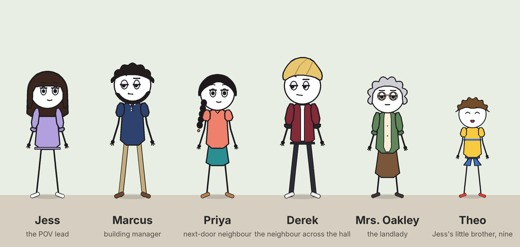
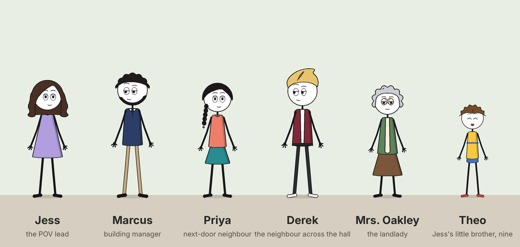
pov-story: redraw the cast to match the reference look
Rebuilt the drawing by comparing a counter two-shot against the reference
frame side by side: thin-outlined eyes with a straight lid line and small
pupils, bigger heads and shorter bodies, solid black limbs, soft A-line and
boxy garments, flat hair, outline-free sets, purple-box subtitle highlight.
Pack, sample, cast sheet, motion test and README previews updated; all 53
tracks pass the posture gate with 0 errors and 0 warnings, including --scene.

Claude-Session: https://claude.ai/code/session_01NQ2JJwxztF1Q7rFfGqcSXC

diff --git a/skills/directing-stickman-videos/references/styles/samples/pov-story.md b/skills/directing-stickman-videos/references/styles/samples/pov-story.md
@@ -7,8 +7,8 @@ Six original characters live in one apartment building; this part uses Jess (the
 - Ratio and length: 9:16, three clips of about ten seconds (about 30 s), 24 FPS, 1080p.
 - Style: `pov-story` (flat 2D vertical drama series, pack `pov-story.md`, status gated). The style paragraph, the anchors, the body rule, each speaker's voice line and the negatives are repeated verbatim in every clip.
 - Cast: Jess (clips 1–3), Marcus (clip 2), Derek (clip 3). A clip lists exactly who is in it.
-- Locks: plain white heads with no nose; Jess's dark-brown blunt fringe and lavender sweatshirt; the photo goes Marcus (right hand) → Jess (left hand) in clip 2 and stays in Jess's left hand through clip 3; Derek holds the parcel in both hands.
-- Palette: warm peach hallway, powder-blue mailroom, Jess's lavender, Marcus's navy and khaki, Derek's maroon and blond; nothing shaded.
+- Locks: plain white heads with no nose; Jess's wavy dark-brown hair with a side-swept fringe and lavender A-line dress; the photo goes Marcus (right hand) → Jess (left hand) in clip 2 and stays in Jess's left hand through clip 3; Derek holds the parcel in both hands.
+- Palette: warm peach hallway, pale peach front desk with a teal counter, Jess's lavender, Marcus's navy and khaki, Derek's maroon and blond; clothes carry one soft darker side, nothing else is shaded.
 - Voices: approved character dialogue. Jess, Marcus and Derek each have one frozen voice line, repeated verbatim in every clip where they speak; nobody narrates.
 - Score: light pizzicato strings and a soft synth pad at about 96 BPM, set in clip 1 and continued unchanged in clips 2–3; buzzes, the latch and the sting are sound effects.
 - Continuity: clip 1 → clip 2 is a named time cut (Jess has walked down to the mailroom; the phone is put away off screen, so clip 2's start line is marked `(time cut)`); clip 2 → clip 3 is a time cut back to her door with the photo still in her left hand.
@@ -19,11 +19,11 @@ Six original characters live in one apartment building; this part uses Jess (the
 ```text
 Render: approximately ten seconds, 9:16, 1080p, 24 FPS; dialogue, music and SFX on separate tracks timed to the beats.
 
-Style: a flat 2D cartoon for a vertical short drama series. Characters have big round plain white heads with no nose, simple coloured hair shapes, white eyes with small black dot pupils under heavy upper eyelids that droop for deadpan and side-eye looks, short line eyebrows and small simple mouths. Bodies are simple flat clothing shapes on thin black stick arms and legs, with tiny black stick-finger hands. Every shape has an even dark outline and a flat fill, with no shading, gradients or texture. Sets are flat pastel everyday interiors with simple outlines and few details. Limited animation: characters hold clear poses, mouths flap on their lines, eyes blink and slide sideways, and gestures are small and quick. Vertical 9:16 framing from the knees up, with clean wall space in the top fifth for a caption box and clean space across the middle-low band for subtitles; nobody's face sits in those bands.
+Style: a flat 2D cartoon for a vertical short drama series. Characters have big round plain white heads with no nose and a bold black outline, about a fifth of their height, with flat coloured hair shapes. Eyes are two close-set white ovals with thin outlines, each cut by a straight eyelid line that drops for deadpan and side-eye looks, with a small black pupil tucked under the lid; thin arched eyebrows and small simple mouths. Bodies are short, soft A-line or boxy clothing shapes with rounded shoulders, a flat fill and one slightly darker side, on solid black stick arms and legs, with small splayed black hands and black flat shoes. No gradients or texture. Sets are flat pastel everyday interiors with no black outlines and few details. Limited animation: characters hold clear poses, mouths flap on their lines, eyes blink and slide sideways, and gestures are small and quick. Vertical 9:16 framing from the knees up, with clean wall space in the top fifth for a caption box and clean space across the middle-low band for subtitles; nobody's face sits in those bands.
 
 Setting: an apartment-building hallway with a flat warm peach wall, a pale lower wall panel under a white rail, a slate-blue carpet and a white skirting line. On the left, a plain teal panel door in a white frame with a rust-red doormat in front of it; on the right, across the hall, a plain brown wooden panel door in a white frame; a small wall light between them; a potted plant with long green leaves at the far right. The top fifth of the frame is plain wall.
 
-Characters (exactly 1, no one else): Jess: a young woman with a big round plain white head, dark-brown hair to her shoulders with a straight blunt fringe, a lavender sweatshirt with the sleeves pushed up to the elbows, bare black stick legs and white sneakers. Every character has exactly two thin black stick arms and two thin black stick legs, and tiny black hands with three short stick fingers. Elbows and knees bend one way only and limbs never stretch. Heads stay plain white circles with no nose and no skin colour.
+Characters (exactly 1, no one else): Jess: a young woman with a big round plain white head, wavy dark-brown hair past her shoulders with a side-swept fringe, a lavender A-line dress to above the knee, black stick legs and black flats. Every character has exactly two solid black stick arms and two solid black stick legs, and small black hands with four short splayed fingers. Elbows and knees bend one way only and limbs never stretch. Heads stay plain white circles with no nose and no skin colour.
 
 Props: one dark phone whose screen shows only a small brown parcel icon.
 
@@ -48,7 +48,7 @@ Dialogue: audio-only character dialogue, strictly no speech bubbles, no dialogue
 
 Voice — Jess: adult female, General American accent, clear mid-range voice, light forward resonance, dry and slightly sarcastic conversational delivery, restrained pitch variation, steady pace, close, dry studio sound; keep the same timbre, register, accent and recording quality in every clip.
 
-Negative constraints: no logos, no brand marks, no watermark, no account names, no letters, numbers or words anywhere in the art, no writing on signs, doors, lockers, parcels or phone screens, no captions or subtitles drawn into the scene, no speech bubbles, no skin-coloured faces, no noses, no realistic hands, no shading, no gradients, no textures, no photorealistic people, no faces inside the top caption band or the subtitle band, no extra fingers, no extra arms or legs, no duplicate characters, no unintended characters, no raised hand, arm or prop covering anyone's face, no changed proportions or colors between shots, no knees or elbows bending backward, no limbs changing length, no head turned past the shoulders, no swapped left and right hands, no prop switching hands without a visible pass, no morphing.
+Negative constraints: no logos, no brand marks, no watermark, no account names, no letters, numbers or words anywhere in the art, no writing on signs, doors, lockers, parcels or phone screens, no captions or subtitles drawn into the scene, no speech bubbles, no skin-coloured faces, no noses, no realistic hands, no gradients, no textures, no photorealistic people, no faces inside the top caption band or the subtitle band, no extra fingers, no extra arms or legs, no duplicate characters, no unintended characters, no raised hand, arm or prop covering anyone's face, no changed proportions or colors between shots, no knees or elbows bending backward, no limbs changing length, no head turned past the shoulders, no swapped left and right hands, no prop switching hands without a visible pass, no morphing.
 ```
 
 ## Clip 2 — The camera still
@@ -56,11 +56,11 @@ Negative constraints: no logos, no brand marks, no watermark, no account names, 
 ```text
 Render: approximately ten seconds, 9:16, 1080p, 24 FPS; dialogue, music and SFX on separate tracks timed to the beats.
 
-Style: a flat 2D cartoon for a vertical short drama series. Characters have big round plain white heads with no nose, simple coloured hair shapes, white eyes with small black dot pupils under heavy upper eyelids that droop for deadpan and side-eye looks, short line eyebrows and small simple mouths. Bodies are simple flat clothing shapes on thin black stick arms and legs, with tiny black stick-finger hands. Every shape has an even dark outline and a flat fill, with no shading, gradients or texture. Sets are flat pastel everyday interiors with simple outlines and few details. Limited animation: characters hold clear poses, mouths flap on their lines, eyes blink and slide sideways, and gestures are small and quick. Vertical 9:16 framing from the knees up, with clean wall space in the top fifth for a caption box and clean space across the middle-low band for subtitles; nobody's face sits in those bands.
+Style: a flat 2D cartoon for a vertical short drama series. Characters have big round plain white heads with no nose and a bold black outline, about a fifth of their height, with flat coloured hair shapes. Eyes are two close-set white ovals with thin outlines, each cut by a straight eyelid line that drops for deadpan and side-eye looks, with a small black pupil tucked under the lid; thin arched eyebrows and small simple mouths. Bodies are short, soft A-line or boxy clothing shapes with rounded shoulders, a flat fill and one slightly darker side, on solid black stick arms and legs, with small splayed black hands and black flat shoes. No gradients or texture. Sets are flat pastel everyday interiors with no black outlines and few details. Limited animation: characters hold clear poses, mouths flap on their lines, eyes blink and slide sideways, and gestures are small and quick. Vertical 9:16 framing from the knees up, with clean wall space in the top fifth for a caption box and clean space across the middle-low band for subtitles; nobody's face sits in those bands.
 
-Setting: a building mailroom with a flat powder-blue wall covered by a grid of plain grey parcel lockers with small handles and nothing written on them, a pale wooden counter top over a dark-teal counter front running across the frame, a small brass desk bell on the left end of the counter, and a sand-coloured floor. The top fifth of the frame is plain wall above the lockers.
+Setting: a building front desk with a flat pale peach wall under a white ceiling, a small bank of plain grey parcel lockers with nothing written on them on the left, a blank white notice card on the wall, a plain blue door in a white frame on the right, a long counter with a white top over a flat teal front and a darker kick band, the back of a dark monitor on the left end of the counter, and a light grey floor. No black outlines on the set. The top fifth of the frame is plain wall.
 
-Characters (exactly 2, no one else): Marcus: a tall man with a big round plain white head, short black curly hair and a short black boxed beard along his jaw, a navy polo shirt with a small white collar, khaki trousers and brown shoes. Jess: a young woman with a big round plain white head, dark-brown hair to her shoulders with a straight blunt fringe, a lavender sweatshirt with the sleeves pushed up to the elbows, bare black stick legs and white sneakers. Every character has exactly two thin black stick arms and two thin black stick legs, and tiny black hands with three short stick fingers. Elbows and knees bend one way only and limbs never stretch. Heads stay plain white circles with no nose and no skin colour.
+Characters (exactly 2, no one else): Marcus: a tall man with a big round plain white head, short black curly hair and a short black boxed beard along his jaw, a navy polo shirt with a small white collar, khaki trousers and black shoes. Jess: a young woman with a big round plain white head, wavy dark-brown hair past her shoulders with a side-swept fringe, a lavender A-line dress to above the knee, black stick legs and black flats. Every character has exactly two solid black stick arms and two solid black stick legs, and small black hands with four short splayed fingers. Elbows and knees bend one way only and limbs never stretch. Heads stay plain white circles with no nose and no skin colour.
 
 Props: one small printed camera still: a white photo card with a grey picture of a figure carrying a box.
 
@@ -68,11 +68,11 @@ Composition: 9:16, from the knees up; Marcus stands behind the counter on the le
 
 Hands at start (time cut) — Marcus: right hand holds the photo; left hand empty. Jess: right hand empty; left hand empty.
 
-First frame: Marcus is already mid-sentence behind the counter, holding the photo low at the counter edge in his right hand; Jess faces him across the counter with an annoyed half-lidded frown.
+First frame: Marcus is already mid-sentence behind the counter, holding the photo low in his right hand just above the counter top; Jess faces him across the counter with an annoyed half-lidded frown.
 
 Timed beats:
 - [0–3s] (Marcus: "Our camera caught someone. Take a look.") Camera holds still. Marcus speaks, still holding the photo low in his right hand; Jess listens, arms at her sides.
-- [3–7s] Camera holds still during the pass. Marcus holds the photo out across the counter at chest height in his right hand. Marcus hands Jess the photo, and Jess takes it in her left hand at about 5s, both hands on the photo for half a second, well below both faces.
+- [3–7s] Camera holds still during the pass. Marcus reaches across the counter and holds the photo in his right hand at chest height. Marcus hands Jess the photo, and Jess takes it in her left hand at about 5s, both hands on the photo for half a second, well below both faces.
 - [7–10s] (Jess: "Wait. I know that jacket.") Marcus lowers his empty right hand to his side. Jess draws the photo in to her chest with her left hand and looks down at it; at about 8.5s the camera punches in fast on Jess's face as her eyes go wide.
 
 Audio: the same light pizzicato and soft synth-pad bed continues from clip 1, same tempo (about 96 BPM) and instrumentation; a light paper slide on the pass, a soft whoosh on the punch-in; keep the dialogue dominant.
@@ -86,7 +86,7 @@ Dialogue: audio-only character dialogue, strictly no speech bubbles, no dialogue
 Voice — Marcus: adult male, General American accent, warm low baritone, gentle chest resonance, calm, unhurried and a little weary delivery, restrained pitch variation, steady pace, close, dry studio sound; keep the same timbre, register, accent and recording quality in every clip.
 Voice — Jess: adult female, General American accent, clear mid-range voice, light forward resonance, dry and slightly sarcastic conversational delivery, restrained pitch variation, steady pace, close, dry studio sound; keep the same timbre, register, accent and recording quality in every clip.
 
-Negative constraints: no logos, no brand marks, no watermark, no account names, no letters, numbers or words anywhere in the art, no writing on signs, doors, lockers, parcels or phone screens, no captions or subtitles drawn into the scene, no speech bubbles, no skin-coloured faces, no noses, no realistic hands, no shading, no gradients, no textures, no photorealistic people, no faces inside the top caption band or the subtitle band, no extra fingers, no extra arms or legs, no duplicate characters, no unintended characters, no raised hand, arm or prop covering anyone's face, no changed proportions or colors between shots, no knees or elbows bending backward, no limbs changing length, no head turned past the shoulders, no swapped left and right hands, no prop switching hands without a visible pass, no morphing.
+Negative constraints: no logos, no brand marks, no watermark, no account names, no letters, numbers or words anywhere in the art, no writing on signs, doors, lockers, parcels or phone screens, no captions or subtitles drawn into the scene, no speech bubbles, no skin-coloured faces, no noses, no realistic hands, no gradients, no textures, no photorealistic people, no faces inside the top caption band or the subtitle band, no extra fingers, no extra arms or legs, no duplicate characters, no unintended characters, no raised hand, arm or prop covering anyone's face, no changed proportions or colors between shots, no knees or elbows bending backward, no limbs changing length, no head turned past the shoulders, no swapped left and right hands, no prop switching hands without a visible pass, no morphing.
 ```
 
 ## Clip 3 — The door across the hall
@@ -94,11 +94,11 @@ Negative constraints: no logos, no brand marks, no watermark, no account names, 
 ```text
 Render: approximately ten seconds, 9:16, 1080p, 24 FPS; dialogue, music and SFX on separate tracks timed to the beats.
 
-Style: a flat 2D cartoon for a vertical short drama series. Characters have big round plain white heads with no nose, simple coloured hair shapes, white eyes with small black dot pupils under heavy upper eyelids that droop for deadpan and side-eye looks, short line eyebrows and small simple mouths. Bodies are simple flat clothing shapes on thin black stick arms and legs, with tiny black stick-finger hands. Every shape has an even dark outline and a flat fill, with no shading, gradients or texture. Sets are flat pastel everyday interiors with simple outlines and few details. Limited animation: characters hold clear poses, mouths flap on their lines, eyes blink and slide sideways, and gestures are small and quick. Vertical 9:16 framing from the knees up, with clean wall space in the top fifth for a caption box and clean space across the middle-low band for subtitles; nobody's face sits in those bands.
+Style: a flat 2D cartoon for a vertical short drama series. Characters have big round plain white heads with no nose and a bold black outline, about a fifth of their height, with flat coloured hair shapes. Eyes are two close-set white ovals with thin outlines, each cut by a straight eyelid line that drops for deadpan and side-eye looks, with a small black pupil tucked under the lid; thin arched eyebrows and small simple mouths. Bodies are short, soft A-line or boxy clothing shapes with rounded shoulders, a flat fill and one slightly darker side, on solid black stick arms and legs, with small splayed black hands and black flat shoes. No gradients or texture. Sets are flat pastel everyday interiors with no black outlines and few details. Limited animation: characters hold clear poses, mouths flap on their lines, eyes blink and slide sideways, and gestures are small and quick. Vertical 9:16 framing from the knees up, with clean wall space in the top fifth for a caption box and clean space across the middle-low band for subtitles; nobody's face sits in those bands.
 
 Setting: an apartment-building hallway with a flat warm peach wall, a pale lower wall panel under a white rail, a slate-blue carpet and a white skirting line. On the left, a plain teal panel door in a white frame with a rust-red doormat in front of it; on the right, across the hall, a plain brown wooden panel door in a white frame; a small wall light between them; a potted plant with long green leaves at the far right. The top fifth of the frame is plain wall.
 
-Characters (exactly 2, no one else): Jess: a young woman with a big round plain white head, dark-brown hair to her shoulders with a straight blunt fringe, a lavender sweatshirt with the sleeves pushed up to the elbows, bare black stick legs and white sneakers. Derek: a tall young man with a big round plain white head, blond hair swept up into a tall quiff, a maroon bomber jacket over a white t-shirt, black trousers and white sneakers. Every character has exactly two thin black stick arms and two thin black stick legs, and tiny black hands with three short stick fingers. Elbows and knees bend one way only and limbs never stretch. Heads stay plain white circles with no nose and no skin colour.
+Characters (exactly 2, no one else): Jess: a young woman with a big round plain white head, wavy dark-brown hair past her shoulders with a side-swept fringe, a lavender A-line dress to above the knee, black stick legs and black flats. Derek: a tall young man with a big round plain white head, blond hair swept up into a tall quiff, a maroon bomber jacket over a white t-shirt, black trousers and white sneakers. Every character has exactly two solid black stick arms and two solid black stick legs, and small black hands with four short splayed fingers. Elbows and knees bend one way only and limbs never stretch. Heads stay plain white circles with no nose and no skin colour.
 
 Props: the same printed camera still; one cardboard parcel with a strip of pale tape and a plain lavender sticker.
 
@@ -123,7 +123,7 @@ Dialogue: audio-only character dialogue, strictly no speech bubbles, no dialogue
 
 Voice — Derek: adult male, General American accent, bright light tenor, smooth and overly friendly delivery, restrained pitch variation, steady pace, close, dry studio sound; keep the same timbre, register, accent and recording quality in every clip.
 
-Negative constraints: no logos, no brand marks, no watermark, no account names, no letters, numbers or words anywhere in the art, no writing on signs, doors, lockers, parcels or phone screens, no captions or subtitles drawn into the scene, no speech bubbles, no skin-coloured faces, no noses, no realistic hands, no shading, no gradients, no textures, no photorealistic people, no faces inside the top caption band or the subtitle band, no extra fingers, no extra arms or legs, no duplicate characters, no unintended characters, no raised hand, arm or prop covering anyone's face, no changed proportions or colors between shots, no knees or elbows bending backward, no limbs changing length, no head turned past the shoulders, no swapped left and right hands, no prop switching hands without a visible pass, no morphing.
+Negative constraints: no logos, no brand marks, no watermark, no account names, no letters, numbers or words anywhere in the art, no writing on signs, doors, lockers, parcels or phone screens, no captions or subtitles drawn into the scene, no speech bubbles, no skin-coloured faces, no noses, no realistic hands, no gradients, no textures, no photorealistic people, no faces inside the top caption band or the subtitle band, no extra fingers, no extra arms or legs, no duplicate characters, no unintended characters, no raised hand, arm or prop covering anyone's face, no changed proportions or colors between shots, no knees or elbows bending backward, no limbs changing length, no head turned past the shoulders, no swapped left and right hands, no prop switching hands without a visible pass, no morphing.
 ```
 
 ## Stitching guide

diff --git a/skills/directing-stickman-videos/references/styles/pov-story.md b/skills/directing-stickman-videos/references/styles/pov-story.md
@@ -19,7 +19,7 @@ These works are named here as research only. Specs never name them, and the cast
 
 | Work | Images looked at | Confirms | Contradicts, and what changed |
 |---|---|---|---|
-| The owner's reference screenshot (a short-video animation account's post, shared in the project, 2026-10-23) | The screenshot itself: one full 9:16 frame and eight thumbnails of the same series | Trait 1: big round white heads with coloured hair shapes, simple dot pupils under heavy lids, thin black stick limbs, simple clothes. Trait 2: a white rounded caption box at the top with a "POV: ..." premise and "Part N". Trait 3: bold capital subtitles in the middle with the current word highlighted. Trait 4: flat everyday sets (an office counter, an apartment door, a store) in pastel wall colours. Trait 5: the half-lidded, unimpressed looks. Multi-part numbering on every thumbnail. | The reference cast (a red-haired clerk with a lanyard, a ginger woman in a mustard dress) and its captions are that account's own; this cast avoids red buns, ginger waves, lanyards and mustard, and the stories are new. |
+| The owner's reference screenshot (a short-video animation account's post, shared in the project, 2026-10-23) | The screenshot itself: one full 9:16 frame and eight thumbnails of the same series | Trait 1: big round white heads with coloured hair shapes, thin-outlined eyes with a lid line and small pupils, solid black stick limbs, simple A-line clothes. Trait 2: a white rounded caption box at the top with a "POV: ..." premise and "Part N". Trait 3: bold capital subtitles in the middle with the current word highlighted. Trait 4: flat everyday sets (an office counter, an apartment door, a store) in pastel wall colours. Trait 5: the half-lidded, unimpressed looks. Multi-part numbering on every thumbnail. | The reference cast (a red-haired clerk with a lanyard, a ginger woman in a mustard dress) and its captions are that account's own; this cast avoids red buns, ginger hair, lanyards, shoulder bags and mustard, and the stories are new. |
 | "POV: Your Landlord Was Old Money — He Taught You 6 Rules" (Wealth Decisions, YouTube 8EyEHV2IpLw) | https://i.ytimg.com/vi/8EyEHV2IpLw/hqdefault.jpg ; hq1, hq2, hq3 | Trait 3: bold subtitle words with one word in yellow, set low in the frame. The second-person "POV:" premise as the title of a short story. | Painterly, shaded illustration with realistic proportions, not flat cartoon heads. Kept only the caption grammar; the flat look comes from the reference. |
 | "POV You Look Like You're Still Renting — You're the Landlord" (Rental Life POV, YouTube BFAwomH_jYk) | https://i.ytimg.com/vi/BFAwomH_jYk/hqdefault.jpg ; hq1, hq2, hq3 | The genre's settings: apartment doors, a driveway, a kitchen table; one lead in the same clothes in every frame. | Same painterly rendering and a horizontal frame. This pack keeps the vertical frame and the flat fills. |
 | "My Best Friend Kept A Huge Secret From Me" (storybooth, YouTube CHfj6DDzymI) | https://i.ytimg.com/vi/CHfj6DDzymI/hqdefault.jpg ; hq1, hq2, hq3 | Trait 1 and 5: flat 2D figures with simple outlines, a palms-up shrug, a sideways unimpressed look, plain flat backgrounds behind a speaking character. | Skin-coloured faces and full hands, 16:9. The white heads and stick hands stay the reference's. |
@@ -27,17 +27,17 @@ These works are named here as research only. Specs never name them, and the cast
 
 What was looked at: the reference screenshot and sixteen still frames from four videos, at thumbnail size, on 2026-10-23. Stills show design, captions and staging, not timing; the motion grammar (limited animation, held poses, lip flaps, one punch-in per part) is this pack's choice, checked in the code-rendered motion test.
 
-Changes made because of the frames: the subtitle highlight is a yellow word (seen in two sources) rather than a coloured box; the caption box stays white with black text; the faces keep white heads (the reference) while the lids and side-eyes come from the reference and storybooth; nothing painterly or shaded.
+Changes made because of the frames: the caption box stays white with black text; the faces keep white heads (the reference) while the lids and side-eyes come from the reference and storybooth; nothing painterly. After the owner's review on 2026-10-23 ("make it truly look like the original") the drawing was rebuilt by rendering a counter two-shot framed like the reference frame and comparing them side by side over nine rounds: the eyes became thin-outlined white ovals with a straight lid line and a small pupil (the first version's big pupils read as sunglasses); the head grew to about a fifth of the height and the body shortened; arms and legs became solid black and thicker; garments became soft A-line or boxy shapes with rounded shoulders and one soft shade side; hair became flat colour with no strand lines; sets lost their black outlines; the subtitle highlight became a purple box behind the current word with a soft shadow on white capitals, as in the reference, instead of a yellow word.
 
 ### Five signature traits
 
 | Tag | Trait (visible in a still) |
 |---|---|
-| `must` | Big round white heads with no nose, coloured hair shapes, white eyes with black dot pupils under heavy upper lids, thin black stick arms and legs with tiny stick-finger hands, simple flat clothes |
+| `must` | Big round white heads with no nose and a bold outline, flat coloured hair shapes, thin-outlined white oval eyes cut by a straight lid line with a small black pupil tucked under it, thin brow arcs, solid black stick arms and legs with small splayed black hands, soft A-line or boxy clothes with one soft shade side, black flat shoes |
 | `must` | A vertical 9:16 frame with a white rounded caption box near the top: the second-person premise line and the part number (added in post) |
-| `must` | Bold capital subtitles of the spoken line in the middle-low band, white with a dark stroke, the word being said in yellow (added in post) |
-| `bonus` | Flat pastel everyday sets with simple outlines: a hallway with plain panel doors, a mailroom counter, a kitchen; a slow push-in on a two-shot and one punch-in on a reaction |
-| `forbidden` | Shading, gradients or textures on characters, skin-coloured faces, noses, realistic hands, any text drawn in the art (signs, labels, phone screens), any account name or watermark |
+| `must` | Heavy white capital subtitles of the spoken line in the middle-low band with a soft dark shadow, the word being said on a purple box (added in post) |
+| `bonus` | Flat pastel everyday sets with thin slate lines only on furniture and no black outlines: a hallway with plain panel doors, a mailroom counter, a kitchen; a slow push-in on a two-shot and one punch-in on a reaction |
+| `forbidden` | Gradients, textures or modelled shading on characters, skin-coloured faces, noses, realistic hands, any text drawn in the art (signs, labels, phone screens), any account name or watermark |
 
 ### Nearest neighbour
 
@@ -57,7 +57,7 @@ The frozen style block below says each one in plain words. The caption and subti
 Repeat it verbatim in every clip. The set goes on a separate `Setting:` line, which may change between clips.
 
 ```text
-Style: a flat 2D cartoon for a vertical short drama series. Characters have big round plain white heads with no nose, simple coloured hair shapes, white eyes with small black dot pupils under heavy upper eyelids that droop for deadpan and side-eye looks, short line eyebrows and small simple mouths. Bodies are simple flat clothing shapes on thin black stick arms and legs, with tiny black stick-finger hands. Every shape has an even dark outline and a flat fill, with no shading, gradients or texture. Sets are flat pastel everyday interiors with simple outlines and few details. Limited animation: characters hold clear poses, mouths flap on their lines, eyes blink and slide sideways, and gestures are small and quick. Vertical 9:16 framing from the knees up, with clean wall space in the top fifth for a caption box and clean space across the middle-low band for subtitles; nobody's face sits in those bands.
+Style: a flat 2D cartoon for a vertical short drama series. Characters have big round plain white heads with no nose and a bold black outline, about a fifth of their height, with flat coloured hair shapes. Eyes are two close-set white ovals with thin outlines, each cut by a straight eyelid line that drops for deadpan and side-eye looks, with a small black pupil tucked under the lid; thin arched eyebrows and small simple mouths. Bodies are short, soft A-line or boxy clothing shapes with rounded shoulders, a flat fill and one slightly darker side, on solid black stick arms and legs, with small splayed black hands and black flat shoes. No gradients or texture. Sets are flat pastel everyday interiors with no black outlines and few details. Limited animation: characters hold clear poses, mouths flap on their lines, eyes blink and slide sideways, and gestures are small and quick. Vertical 9:16 framing from the knees up, with clean wall space in the top fifth for a caption box and clean space across the middle-low band for subtitles; nobody's face sits in those bands.
 ```
 
 ## 3. Cast cards (verbatim anchors)
@@ -66,17 +66,17 @@ Six original characters for apartment-building stories. They differ first by sil
 
 | Character | Role | Anchor |
 |---|---|---|
-| Jess | the POV lead ("you" in the caption) | Jess: a young woman with a big round plain white head, dark-brown hair to her shoulders with a straight blunt fringe, a lavender sweatshirt with the sleeves pushed up to the elbows, bare black stick legs and white sneakers. |
-| Marcus | building manager | Marcus: a tall man with a big round plain white head, short black curly hair and a short black boxed beard along his jaw, a navy polo shirt with a small white collar, khaki trousers and brown shoes. |
-| Priya | next-door neighbour | Priya: a young woman with a big round plain white head, long black hair in one thick braid hanging over her right shoulder, a coral blouse, a teal knee-length skirt, bare black stick legs and tan flats. |
+| Jess | the POV lead ("you" in the caption) | Jess: a young woman with a big round plain white head, wavy dark-brown hair past her shoulders with a side-swept fringe, a lavender A-line dress to above the knee, black stick legs and black flats. |
+| Marcus | building manager | Marcus: a tall man with a big round plain white head, short black curly hair and a short black boxed beard along his jaw, a navy polo shirt with a small white collar, khaki trousers and black shoes. |
+| Priya | next-door neighbour | Priya: a young woman with a big round plain white head, long black hair in one thick braid hanging over her right shoulder, a coral blouse, a teal knee-length skirt, black stick legs and black flats. |
 | Derek | neighbour across the hall | Derek: a tall young man with a big round plain white head, blond hair swept up into a tall quiff, a maroon bomber jacket over a white t-shirt, black trousers and white sneakers. |
-| Mrs. Oakley | landlady | Mrs. Oakley: an older woman with a big round plain white head, short silver curls like a small cloud, small round brown-framed glasses, a green cardigan over a cream blouse, a long brown skirt, bare black stick legs and dark shoes. |
-| Theo | Jess's little brother, nine | Theo: a small boy about three quarters of Jess's height with a big round plain white head, messy spiky brown hair, a yellow t-shirt with one blue stripe across the chest, blue shorts, bare black stick legs and red sneakers. |
+| Mrs. Oakley | landlady | Mrs. Oakley: an older woman with a big round plain white head, short silver curls like a small cloud, small round brown-framed glasses, a green cardigan over a cream blouse, a long brown skirt, black stick legs and black shoes. |
+| Theo | Jess's little brother, nine | Theo: a small boy about three quarters of Jess's height with a big round plain white head, messy spiky brown hair, a yellow t-shirt with one blue stripe across the chest, blue shorts, black stick legs and red sneakers. |
 
 After the anchors in every clip, add this rule once:
 
 ```text
-Every character has exactly two thin black stick arms and two thin black stick legs, and tiny black hands with three short stick fingers. Elbows and knees bend one way only and limbs never stretch. Heads stay plain white circles with no nose and no skin colour.
+Every character has exactly two solid black stick arms and two solid black stick legs, and small black hands with four short splayed fingers. Elbows and knees bend one way only and limbs never stretch. Heads stay plain white circles with no nose and no skin colour.
 ```
 
 Anchor rules:
@@ -101,7 +101,7 @@ Anchor rules:
 ## 5. Text, motion, camera
 
 - **Text policy: `post-overlay`.** No words, letters or numbers in the art: plain doors, blank lockers, a parcel icon on the phone. The caption box ("POV: <premise>" on one or two lines, then "Part N"), the closing "Part N+1" tag and the subtitles are drawn by code after the scene, in the bands the style block keeps clean: caption box in the top fifth, subtitles across the middle-low band, part tag near the bottom edge above the platform bar. The overlay text is listed in the sample's continuity block, never in a spec.
-- **Subtitles:** bold capitals, white with a dark stroke, at most two lines of about 300 px at 360 px width; the word being said turns yellow; the line stays on screen about one second after the speaker stops.
+- **Subtitles:** heavy white capitals with a soft dark shadow, at most two lines of about 250 px at 360 px width, set at about 70% of the frame height; the word being said sits on a purple box; the line stays on screen about one second after the speaker stops.
 - **Motion cadence: `stepped`.** Hold poses; animate mouths (open, mid, closed on a short loop), blinks, pupil slides and one small gesture per beat; a pass is eased over about one second.
 - **Camera.** Follow the camera grammar in `storyboard-template.md`; name the move at the start of every beat.
   - Base framing: from the knees up, feet near the bottom edge, faces in the upper-middle band.
@@ -150,7 +150,7 @@ Gating 48 pose tracks (each of six characters in stand, wave, shrug, phone, carr
 Negatives, verbatim in every clip. They include the five shared posture negatives from `posture-gate.md`:
 
 ```text
-Negative constraints: no logos, no brand marks, no watermark, no account names, no letters, numbers or words anywhere in the art, no writing on signs, doors, lockers, parcels or phone screens, no captions or subtitles drawn into the scene, no speech bubbles, no skin-coloured faces, no noses, no realistic hands, no shading, no gradients, no textures, no photorealistic people, no faces inside the top caption band or the subtitle band, no extra fingers, no extra arms or legs, no duplicate characters, no unintended characters, no raised hand, arm or prop covering anyone's face, no changed proportions or colors between shots, no knees or elbows bending backward, no limbs changing length, no head turned past the shoulders, no swapped left and right hands, no prop switching hands without a visible pass, no morphing.
+Negative constraints: no logos, no brand marks, no watermark, no account names, no letters, numbers or words anywhere in the art, no writing on signs, doors, lockers, parcels or phone screens, no captions or subtitles drawn into the scene, no speech bubbles, no skin-coloured faces, no noses, no realistic hands, no gradients, no textures, no photorealistic people, no faces inside the top caption band or the subtitle band, no extra fingers, no extra arms or legs, no duplicate characters, no unintended characters, no raised hand, arm or prop covering anyone's face, no changed proportions or colors between shots, no knees or elbows bending backward, no limbs changing length, no head turned past the shoulders, no swapped left and right hands, no prop switching hands without a visible pass, no morphing.
 ```
 
 ## 8. Post-production

diff --git a/skills/directing-stickman-videos/references/styles/samples/pov-story.facts.md b/skills/directing-stickman-videos/references/styles/samples/pov-story.facts.md
@@ -1,9 +1,9 @@
 <!-- package_lint facts: generated, do not edit -->
-- package: `pov-story.md` sha256 1170b327a542e6a0
+- package: `pov-story.md` sha256 fcd900d0e050dda1
 - checked: 2026-10-23
 - storyboard rows: none
 - segment specs: 3
 - hand_ledger: PASS
 - red: 0
 - yellow: 0
-<!-- package_lint facts end sha256=b52792afc89cca9d0d8b092d50a0485c9031c7805035de4a1a2f358233c2644b -->
+<!-- package_lint facts end sha256=2997c759f6b8e9d6ba906ff45d0357f0e02d067eb6871ced9c469029f611760a -->
